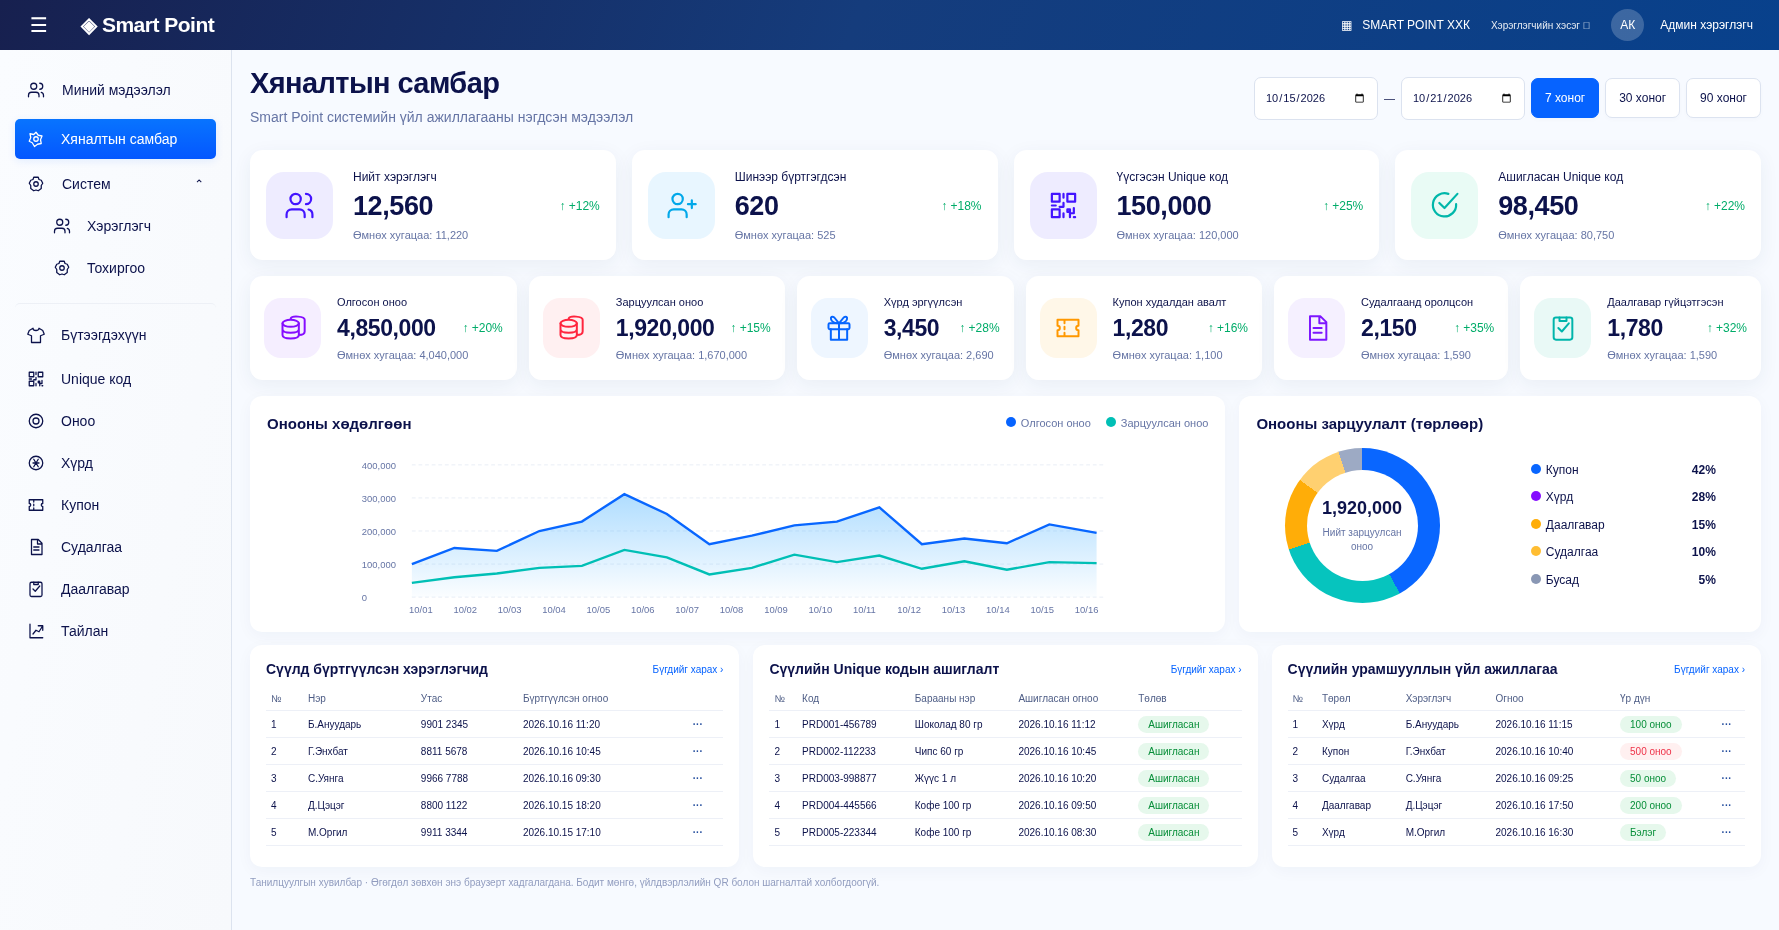
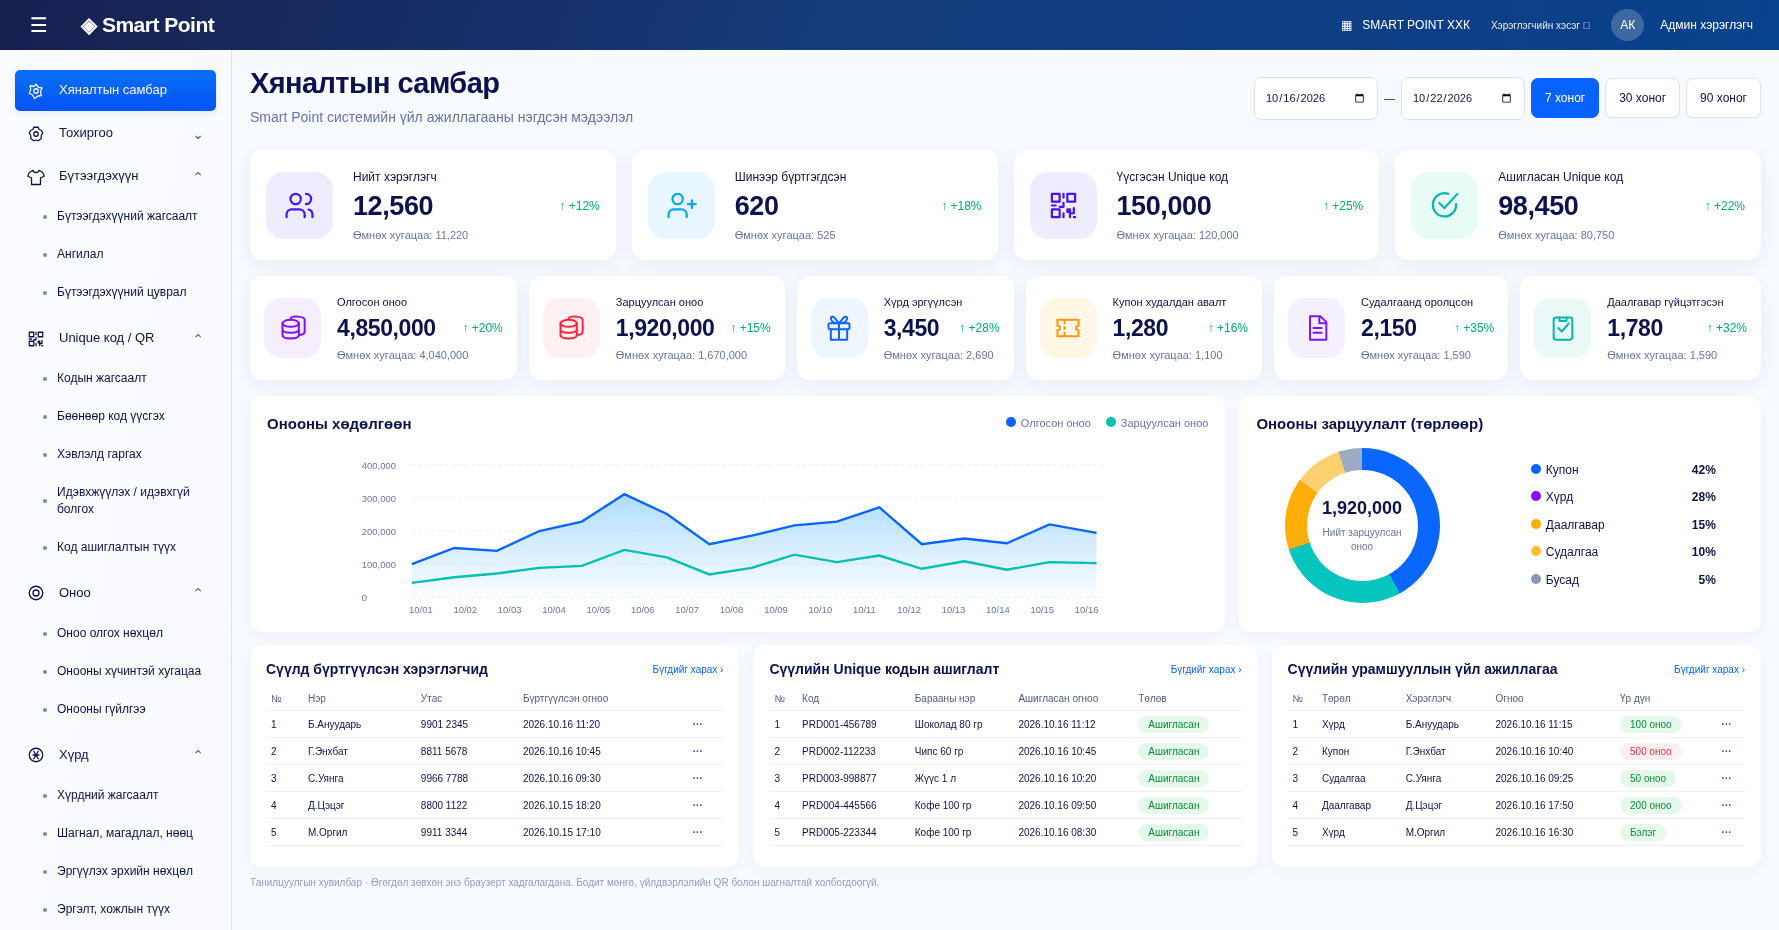
Add hierarchical admin menu with settings below dashboard

diff --git a/assets/app.js b/assets/app.js
@@ -3,7 +3,27 @@ const $=id=>document.getElementById(id), fmt=n=>Number(n).toLocaleString('en-US'
 const today=()=>new Date().toISOString().slice(0,10);const seed={balance:24850,rate:100,spinCost:500,codes:[],transactions:[{title:'Шоколад 80 гр',amount:100,date:today(),kind:'Код'},{title:'Купон худалдан авалт',amount:-500,date:today(),kind:'Купон'}],claims:[],completed:[],users:[['Б.Ануударь','9901 2345'],['Г.Энхбат','8811 5678'],['С.Уянга','9966 7788'],['Д.Цэцэг','8800 1122'],['М.Оргил','9911 3344']]};let db,storageAvailable=true;try{db=JSON.parse(localStorage.getItem('smartpoint-v1'))||structuredClone(seed)}catch{db=structuredClone(seed);storageAvailable=false}let page='dashboard',customer=false;const nav=[['dashboard','♧','Хяналтын самбар'],['users','♙','Хэрэглэгч'],['settings','⚙','Тохиргоо'],['products','♧','Бүтээгдэхүүн'],['codes','▦','Unique код'],['points','◎','Оноо'],['wheel','⊗','Хүрд'],['coupons','♧','Купон'],['surveys','▤','Судалгаа'],['tasks','☑','Даалгавар'],['reports','▧','Тайлан']];
 function save(){try{localStorage.setItem('smartpoint-v1',JSON.stringify(db))}catch{storageAvailable=false;toast('Браузер хадгалах боломжгүй. Өгөгдөл зөвхөн энэ хуудсанд үлдэнэ.')}}function toast(t){$('toast').textContent=t;$('toast').style.display='block';clearTimeout(toast.timer);toast.timer=setTimeout(()=>$('toast').style.display='none',4000)}function modal(title,body){$('dialogTitle').textContent=title;$('dialogBody').innerHTML=body;$('dialog').showModal()}$('close').onclick=()=>$('dialog').close();$('menu').onclick=()=>$('sidebar').classList.toggle('open');
 function transact(title,amount,kind){db.balance+=amount;db.transactions.unshift({title,amount,kind,date:today()});save()}
-function go(p){page=p;render();$('sidebar').classList.remove('open');window.scrollTo(0,0)}function render(){const items=customer?nav.filter(x=>['dashboard','codes','points','wheel','coupons','surveys','tasks'].includes(x[0])):nav;$('nav').innerHTML=items.map(([id,icon,label])=>`<button data-page="${id}" class="${page===id?'active':''}"><span>${lineIcon(id)}</span>${id==='codes'&&customer?'Кодоор оноо авах':label}</button>`).join('');if(!customer){$('nav').insertAdjacentHTML('afterbegin',`<button data-profile>${lineIcon('users')}<span>Миний мэдээлэл</span></button>`);const userButton=$('nav').querySelector('[data-page=users]');userButton.insertAdjacentHTML('beforebegin',`<button class=system-group>${lineIcon('settings')}<span>Систем</span><small>⌃</small></button>`);userButton.classList.add('subnav');$('nav').querySelector('[data-page=settings]').classList.add('subnav');$('nav').querySelector('[data-profile]').onclick=()=>modal('Миний мэдээлэл','<p>Админ хэрэглэгч · SMART POINT ХХК</p>');}document.querySelectorAll('[data-page]').forEach(b=>b.onclick=()=>go(b.dataset.page));$('title').textContent=customer&&page==='dashboard'?'Миний Smart Point':nav.find(x=>x[0]===page)[2];$('subtitle').textContent=customer?'Оноогоо цуглуулж, урамшууллаа аваарай':'Smart Point системийн үйл ажиллагааны нэгдсэн мэдээлэл';$('filters').style.display=page==='dashboard'&&!customer?'flex':'none';$('mode').textContent=customer?'Админ хэсэг ↗':'Хэрэглэгчийн хэсэг ↗';const views={dashboard:customer?consumer:dashboard,users,settings,products,codes,points,wheel,coupons,surveys,tasks,reports};$('view').innerHTML=views[page]();bind()}
+const adminMenu=[
+['dashboard','Хяналтын самбар',[]],
+['settings','Тохиргоо',[['organization','Байгууллагын мэдээлэл'],['staff','Ажилтнууд'],['roles','Албан үүрэг, хандах эрх'],['audit','Үйлдлийн түүх']]],
+['products','Бүтээгдэхүүн',[['product-list','Бүтээгдэхүүний жагсаалт'],['categories','Ангилал'],['batches','Бүтээгдэхүүний цуврал']]],
+['codes','Unique код / QR',[['code-list','Кодын жагсаалт'],['code-generate','Бөөнөөр код үүсгэх'],['code-print','Хэвлэлд гаргах'],['code-activate','Идэвхжүүлэх / идэвхгүй болгох'],['code-history','Код ашиглалтын түүх']]],
+['points','Оноо',[['point-rules','Оноо олгох нөхцөл'],['point-expiry','Онооны хүчинтэй хугацаа'],['point-transactions','Онооны гүйлгээ']]],
+['wheel','Хүрд',[['wheel-list','Хүрдний жагсаалт'],['wheel-prizes','Шагнал, магадлал, нөөц'],['wheel-rules','Эргүүлэх эрхийн нөхцөл'],['wheel-history','Эргэлт, хожлын түүх']]],
+['coupons','Купон',[['coupon-list','Купоны жагсаалт'],['coupon-purchases','Худалдан авалтын түүх'],['coupon-usage','Купоны ашиглалт']]],
+['surveys','Судалгаа',[['survey-list','Судалгааны жагсаалт'],['survey-answers','Оролцогчид, хариулт'],['survey-results','Үр дүн']]],
+['tasks','Даалгавар',[['task-list','Даалгаврын жагсаалт'],['task-verify','Гүйцэтгэл баталгаажуулах'],['task-history','Гүйцэтгэлийн түүх']]],
+['users','Хэрэглэгчид',[['user-list','Хэрэглэгчийн жагсаалт'],['user-details','Хэрэглэгчийн дэлгэрэнгүй',[['user-points','Онооны үлдэгдэл, түүх'],['user-codes','Ашигласан код'],['user-rewards','Урамшууллын оролцоо']]]]],
+['fulfillment','Шагнал олголт',[['prizes-pending','Олгох хүлээлттэй'],['prizes-delivered','Олгосон шагнал']]],
+['reports','Тайлан',[['report-codes','Код ашиглалтын тайлан'],['report-points','Онооны тайлан'],['report-rewards','Урамшууллын тайлан'],['report-activity','Хэрэглэгчийн идэвхийн тайлан']]]
+];
+let selectedAdmin='dashboard';const expandedMenus=new Set();
+function menuItem(item,depth=0){const [id,label,children=[]]=item;const selected=id===selectedAdmin;const contains=children.some(c=>c[0]===selectedAdmin||(c[2]||[]).some(d=>d[0]===selectedAdmin));return `<div class="menu-node"><button type="button" data-admin="${id}" ${children.length?`aria-expanded="${expandedMenus.has(id)}" aria-controls="submenu-${id}"`:selected?'aria-current="page"':''} class="menu-button depth-${depth} ${selected?'active':''} ${contains?'has-selection':''}">${depth===0?`<span class="menu-icon">${lineIcon(id==='fulfillment'?'gift':id)}</span>`:'<span class="menu-bullet"></span>'}<span class="menu-label">${label}</span>${children.length?`<span class="menu-chevron">${expandedMenus.has(id)?'⌃':'⌄'}</span>`:''}</button>${children.length?`<div id="submenu-${id}" class="submenu" ${expandedMenus.has(id)?'':'hidden'}>${children.map(c=>menuItem(c,depth+1)).join('')}</div>`:''}</div>`}
+function findAdmin(id,items=adminMenu){for(const item of items){if(item[0]===id)return item;const child=findAdmin(id,item[2]||[]);if(child)return child}return null}
+const routes={'product-list':'products','code-list':'codes','code-generate':'codes','code-print':'codes','code-activate':'codes','point-rules':'settings','point-transactions':'points','user-list':'users','user-points':'points','report-points':'reports'};
+function go(p){page=p;if(!customer){const group=adminMenu.find(x=>x[0]===p);if(group&&group[2].length){expandedMenus.add(p);selectedAdmin=group[2][0][0]}else selectedAdmin=p;}render();$('sidebar').classList.remove('open');window.scrollTo(0,0)}
+function render(){if(customer){const items=nav.filter(x=>['dashboard','codes','points','wheel','coupons','surveys','tasks'].includes(x[0]));$('nav').innerHTML=items.map(([id,icon,label])=>`<button data-page="${id}" class="${page===id?'active':''}"><span>${lineIcon(id)}</span>${id==='codes'?'Кодоор оноо авах':label}</button>`).join('');document.querySelectorAll('[data-page]').forEach(b=>b.onclick=()=>go(b.dataset.page));}else{$('nav').innerHTML=adminMenu.map(i=>menuItem(i)).join('');document.querySelectorAll('[data-admin]').forEach(b=>b.onclick=()=>{const id=b.dataset.admin,item=findAdmin(id);if(item[2]?.length){expandedMenus.has(id)?expandedMenus.delete(id):expandedMenus.add(id);render();return}selectedAdmin=id;page=id;render();$('sidebar').classList.remove('open');window.scrollTo(0,0)});}
+const active=findAdmin(selectedAdmin);$('title').textContent=customer?(page==='dashboard'?'Миний Smart Point':nav.find(x=>x[0]===page)[2]):active[1];$('subtitle').textContent=customer?'Оноогоо цуглуулж, урамшууллаа аваарай':selectedAdmin==='dashboard'?'Smart Point системийн үйл ажиллагааны нэгдсэн мэдээлэл':'Үйлдвэрлэгч, нийлүүлэгчийн удирдлагын хэсэг';$('filters').style.display=page==='dashboard'&&!customer?'flex':'none';$('mode').textContent=customer?'Админ хэсэг ↗':'Хэрэглэгчийн хэсэг ↗';const views={dashboard:customer?consumer:dashboard,users,settings,products,codes,points,wheel,coupons,surveys,tasks,reports};const target=customer?page:routes[selectedAdmin]||(selectedAdmin==='dashboard'?'dashboard':null);$('view').innerHTML=target?views[target]():panel(active[1],'<div class="empty"><p>Энэ хэсгийн цэс, дэлгэцийн бүтэц бэлэн боллоо.</p><p>Дэлгэрэнгүй удирдлагын боломжийг дараагийн хөгжүүлэлтээр нэмнэ.</p></div>');bind();}
 $('mode').onclick=()=>{customer=!customer;go('dashboard')};
 function table(head,rows){return `<div class="table-wrap"><table><thead><tr>${head.map(x=>`<th>${x}</th>`).join('')}</tr></thead><tbody>${rows.join('')||`<tr><td colspan="${head.length}" class="empty">Одоогоор мэдээлэл алга</td></tr>`}</tbody></table></div>`}const tr=cells=>`<tr>${cells.map(x=>`<td>${x}</td>`).join('')}</tr>`;function panel(title,content,action=''){return `<section class="panel"><div class="panel-head"><h2>${title}</h2>${action}</div>${content}</section>`}function stat(icon,label,value,gain,previous){return `<div class="stat"><div class="stat-icon">${lineIcon(({'♙':'users','♙+':'addUser','▦':'codes','✓':'check','◎':'coins','♔':'gift','♧':'coupons','▤':'surveys','☑':'tasks'})[icon]||'points')}</div><div><div class="stat-label">${label}</div><div class="stat-value">${value}<span class="gain">↑ +${gain}%</span></div><small>Өмнөх хугацаа: ${previous}</small></div></div>`}
 function chart(){return `<svg class="chart" viewBox="0 0 800 180" role="img" aria-label="Жишээ онооны хөдөлгөөний график"><defs><linearGradient id="area" x1="0" y1="0" x2="0" y2="1"><stop stop-color="#38aaff" stop-opacity=".4"/><stop offset="1" stop-color="#38aaff" stop-opacity=".02"/></linearGradient></defs>${[20,55,90,125,160].map((y,i)=>`<line x1="55" y1="${y}" x2="790" y2="${y}" stroke="#e8edf5" stroke-dasharray="4 3"/><text x="2" y="${y+4}">${fmt(400000-i*100000)}</text>`).join('')}<path d="M55 125 L100 108 L145 111 L190 90 L235 80 L280 51 L325 72 L370 104 L415 95 L460 84 L505 80 L550 65 L595 104 L640 98 L685 103 L730 83 L780 92 L780 160 L55 160Z" fill="url(#area)"/><polyline points="55,125 100,108 145,111 190,90 235,80 280,51 325,72 370,104 415,95 460,84 505,80 550,65 595,104 640,98 685,103 730,83 780,92" fill="none" stroke="#0866ff" stroke-width="2.5"/><path d="M55 145 L100 139 L145 135 L190 129 L235 127 L280 110 L325 118 L370 136 L415 129 L460 115 L505 123 L550 116 L595 130 L640 122 L685 131 L730 123 L780 124" fill="none" stroke="#00bfb5" stroke-width="2.5"/>${Array.from({length:16},(_,i)=>`<text x="${52+i*47}" y="177">10/${String(i+1).padStart(2,'0')}</text>`).join('')}</svg>`}

diff --git a/assets/style.css b/assets/style.css
@@ -6,3 +6,5 @@
 @media(max-width:1100px){.stats.secondary{grid-template-columns:repeat(3,1fr)}.charts{grid-template-columns:1fr}.tables{grid-template-columns:1fr}.tables .panel:last-child{grid-column:auto}.title-row{flex-wrap:wrap;height:auto}.stats{grid-template-columns:repeat(2,1fr)}}
 @media(max-width:900px){aside{width:180px}main{margin-left:180px}.charts .panel{height:auto;min-height:230px}.chart{height:180px}.title-row{margin-bottom:18px;height:auto}.stat-icon{width:45px;height:50px}.stat{gap:10px;padding:14px 10px}.stat-value{font-size:24px}.stats.secondary{grid-template-columns:repeat(2,1fr)}.secondary .stat{gap:10px}.gain{display:none}.stat-label{font-size:11px}.secondary .stat-value{font-size:21px}.tables .panel{height:auto;min-height:220px}.header-right{gap:5px}}
 @media(max-width:600px){aside{inset:50px auto 0 0;width:232px}main{margin:50px 0 0;padding:20px 12px}header{padding:0 12px;gap:12px}header strong{font-size:18px}.header-right #mode{font-size:9px}h1{font-size:26px}#subtitle{font-size:12px}.stats{gap:10px}.stats.secondary{gap:10px}.stat,.secondary .stat{height:99px;gap:8px}.stat-icon,.secondary .stat-icon{width:40px;height:49px;border-radius:12px}.stat-icon svg,.secondary .stat-icon svg{width:25px;height:25px}.stat-value,.secondary .stat-value{font-size:22px}.stat-label,.secondary .stat-label{font-size:10px}.stat small{font-size:9px}.legend{font-size:9px;gap:6px}.charts h2{font-size:13px}.donut-wrap{gap:24px}.donut-labels{font-size:11px}.tables h2{font-size:13px}.tables .panel{padding:14px}.chart{height:160px}.tables{gap:12px}}
+/* Organization admin navigation */
+#sidebar{overflow-y:auto;overscroll-behavior:contain;scrollbar-width:thin;scrollbar-color:#d9e2f0 transparent}#nav .menu-button{display:flex;width:100%;height:auto;min-height:41px;gap:13px;padding:11px 12px;text-align:left;margin:2px 0}#nav .menu-button .menu-icon{display:flex;align-items:center;width:19px;flex-shrink:0}#nav .menu-button .menu-label{width:auto;flex:1;line-height:1.45;font-size:13px}#nav .menu-button .menu-chevron{width:auto;font-size:14px;opacity:.7}#nav .menu-button.has-selection{color:#075fe9;background:#edf4ff}#nav .menu-button.depth-1{padding:9px 10px 9px 28px;min-height:36px;gap:10px}#nav .menu-button.depth-2{padding:9px 8px 9px 43px;min-height:35px;gap:8px}#nav .depth-1 .menu-label,#nav .depth-2 .menu-label{font-size:12px}#nav .menu-bullet{display:block!important;width:4px!important;height:4px;border-radius:50%;background:currentColor;opacity:.5;flex-shrink:0}#nav .submenu{margin:2px 0 7px}#nav .submenu[hidden]{display:none}#nav button:focus-visible{outline:2px solid #0966ff;outline-offset:2px}#nav .depth-1.active,#nav .depth-2.active{background:#e8f1ff;color:#0658df;box-shadow:none;font-weight:600}

diff --git a/README.md b/README.md
@@ -39,3 +39,7 @@ python -m http.server 3000 --bind 0.0.0.0
 | 012 | Үлдэгдэл, түүхтэй; онооны дуусах хугацааны бодлого хийгдээгүй |
 
 Dashboard график, статистик нь жишээ тогтмол өгөгдөл; огнооны шүүлтүүр бодит өгөгдөл шүүхгүй. Local demo-ийн бодит үйлдлийг Оноо / Тайлан хэсэг харуулна. Үйлдвэрлэлийн хэрэглээнд backend, өгөгдлийн сан, атомик гүйлгээ, баталгаажуулалт, эрхийн хяналт, давхар код ашиглалтаас хамгаалалт, аудит, QR болон купон баталгаажуулалт шаардлагатай.
+
+## Admin цэс
+
+Хяналтын самбарын дараа Тохиргоо байрлана. Бүтээгдэхүүн, Unique код / QR, Оноо, Хүрд, Купон, Судалгаа, Даалгавар, Хэрэглэгчид, Шагнал олголт, Тайлан нь дэлгэгддэг дэд цэстэй. Хэрэглэгчийн дэлгэрэнгүй гуравдугаар түвшний цэстэй. Шинэ дэд хэсгүүдийн зарим нь дэлгэцийн бүтэц төдий; хэрэгжээгүй үйлдлийг тухайн дэлгэц дээр тэмдэглэсэн. Admin хүрд, купон, судалгаа, даалгаврын цэс нь хэрэглэгчийн оролцох үйлдлээс тусдаа.
